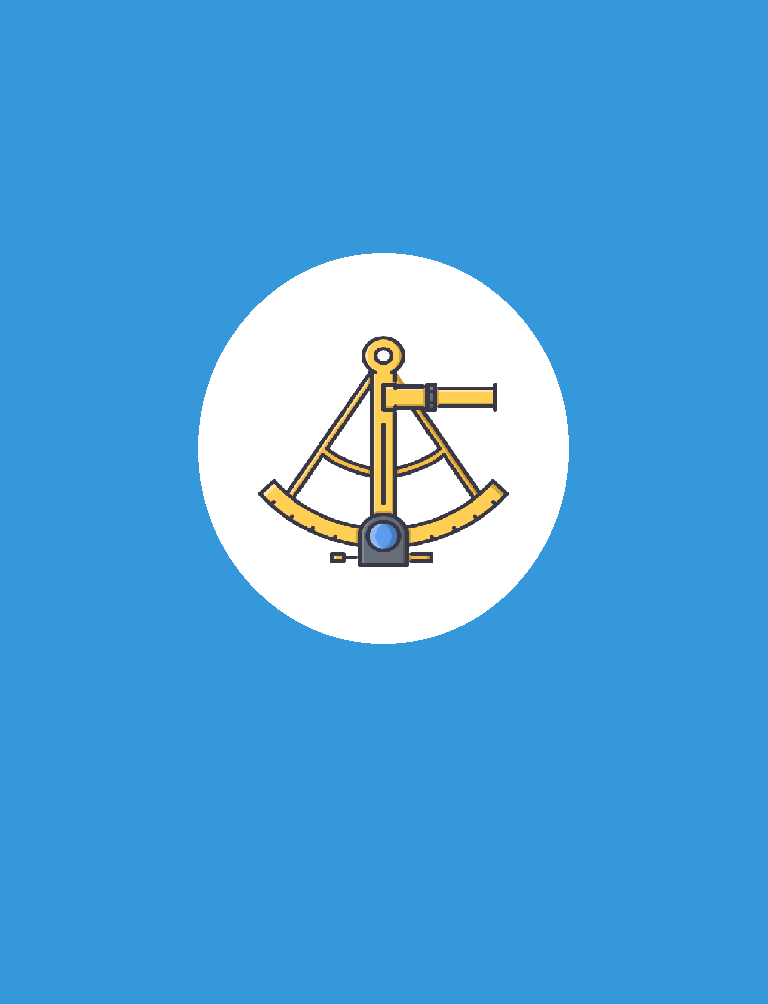
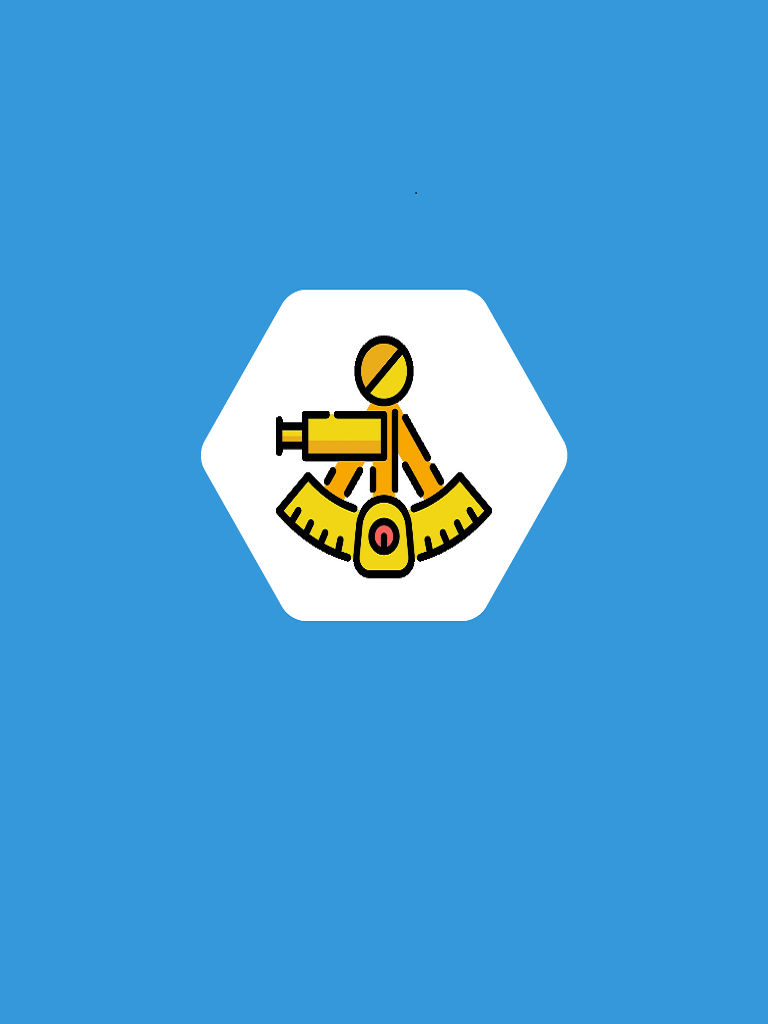
JB - added about page,legalise etc

Changed region(s): [[0.25, 0.247, 0.75, 0.6484]]

diff --git a/SextantHelper/SextantHelper/PageAbout.cs b/SextantHelper/SextantHelper/PageAbout.cs
@@ -1,6 +1,7 @@
-using System;
+using Xamarin.Forms;
 using System.Reflection;
-using Xamarin.Forms;
+using System;
+using Xamarin.Essentials;
 
 namespace SextantHelper
 {
@@ -8,14 +9,21 @@ namespace SextantHelper
     {
         public PageAbout()
         {
-            const string cSTR_TOP = "Sextant Helper - From Red Lid";
-            const string cSTR_ABOUT = "Sextant Helper aims to help you capture celestial observations from a Sextant. It does not replace the need for a sextant. Content copyright of originators & shared with their consent.";
-            
+            const string cSTR_ABOUT = "Shared for educational purposes. No warranties expressed or implied. Content copyright of originators & shared with their consent. Logo courtesy flaticon.com";
+            const string cWEB = "github.com/jimbowyer/SextantHelper";
             var assembly = typeof(SextantHelper.App).GetTypeInfo().Assembly;
             var assemName = new AssemblyName(assembly.FullName);
             string sVersion = "Version: " + assemName.Version.ToString();
 
             BackgroundColor = Color.White;
+
+            Button btnLink = new Button() { Text = cWEB, TextColor = Color.Blue };
+            btnLink.Clicked += (sender, args) =>
+            {
+                Uri uri = new Uri("http://" + cWEB);
+                Launcher.OpenAsync(uri);
+            };
+
             Content = new StackLayout
             {
                 HorizontalOptions = LayoutOptions.Center,
@@ -23,18 +31,20 @@ namespace SextantHelper
                 Padding = new Thickness(5),
                 Spacing = 30,
                 Children = {
-                    new Label { Text = cSTR_TOP, TextColor= Color.Black, HorizontalTextAlignment= TextAlignment.Center},
                     new Image
                     {
-                        Source = "sextant_about.png",
+                        Source = "about.jpg",
                         IsVisible = true,
                         VerticalOptions = LayoutOptions.Start,
                         HorizontalOptions = LayoutOptions.Center
                     },
                     new Label { Text = sVersion, TextColor= Color.Black, HorizontalTextAlignment= TextAlignment.Center},
-                    new Label { Text = cSTR_ABOUT, TextColor= Color.Black, HorizontalTextAlignment= TextAlignment.Center},                    
+                    new Label { Text = cSTR_ABOUT, TextColor= Color.Black, HorizontalTextAlignment= TextAlignment.Center},
+                    btnLink
                 }
             };
-        } //ctor
-    } //class
-} //ns
+
+        } //PageAbout
+    }
+}
+

diff --git a/SextantHelper/SextantHelper.Android/Properties/AssemblyInfo.cs b/SextantHelper/SextantHelper.Android/Properties/AssemblyInfo.cs
@@ -11,7 +11,7 @@ using Android.App;
 [assembly: AssemblyConfiguration("")]
 [assembly: AssemblyCompany("")]
 [assembly: AssemblyProduct("SextantHelper.Android")]
-[assembly: AssemblyCopyright("Copyright ©  2014")]
+[assembly: AssemblyCopyright("Copyright ©  2023")]
 [assembly: AssemblyTrademark("")]
 [assembly: AssemblyCulture("")]
 [assembly: ComVisible(false)]
@@ -22,8 +22,8 @@ using Android.App;
 //      Minor Version 
 //      Build Number
 //      Revision
-[assembly: AssemblyVersion("1.0.0.1")]
-[assembly: AssemblyFileVersion("1.0.0.1")]
+[assembly: AssemblyVersion("1.0.1.0")]
+[assembly: AssemblyFileVersion("1.0.1.0")]
 
 // Add some common permissions, these can be removed if not needed
 [assembly: UsesPermission(Android.Manifest.Permission.Internet)]

diff --git a/SextantHelper/SextantHelper.iOS/Properties/AssemblyInfo.cs b/SextantHelper/SextantHelper.iOS/Properties/AssemblyInfo.cs
@@ -10,7 +10,7 @@ using System.Runtime.InteropServices;
 [assembly: AssemblyConfiguration("")]
 [assembly: AssemblyCompany("")]
 [assembly: AssemblyProduct("SextantHelper.iOS")]
-[assembly: AssemblyCopyright("Copyright ©  2014")]
+[assembly: AssemblyCopyright("Copyright ©  2023")]
 [assembly: AssemblyTrademark("")]
 [assembly: AssemblyCulture("")]
 
@@ -32,5 +32,5 @@ using System.Runtime.InteropServices;
 // You can specify all the values or you can default the Build and Revision Numbers 
 // by using the '*' as shown below:
 // [assembly: AssemblyVersion("1.0.*")]
-[assembly: AssemblyVersion("1.0.0.1")]
-[assembly: AssemblyFileVersion("1.0.0.1")]
+[assembly: AssemblyVersion("1.0.1.0")]
+[assembly: AssemblyFileVersion("1.0.1.0")]

diff --git a/SextantHelper/SextantHelper.iOS/Main.cs b/SextantHelper/SextantHelper.iOS/Main.cs
@@ -2,6 +2,7 @@
 using Xamarin.Forms;
 using UIKit;
 using SextantHelper.iOS;
+using System.Runtime.CompilerServices;
 
 [assembly: ResolutionGroupName("RedlidConsulting")]
 [assembly: ExportRenderer(typeof(Entry), typeof(NumericKeyboardEntryRenderer))]
@@ -15,6 +16,7 @@ namespace SextantHelper.iOS
             // if you want to use a different Application Delegate class from "AppDelegate"
             // you can specify it here.
             UIApplication.Main(args, null, typeof(AppDelegate));
+            
         }
     } //class app
 

diff --git a/SextantHelper/SextantHelper/PageMain.cs b/SextantHelper/SextantHelper/PageMain.cs
@@ -1,5 +1,4 @@
-
-using Xamarin.Forms;
+using Xamarin.Forms;
 
 namespace SextantHelper
 {
@@ -7,7 +6,6 @@ namespace SextantHelper
     {
         public PageMain()
         {
-
             this.Children.Add(new PageSky
             {
                 Title = "Sky Info",
@@ -26,9 +24,10 @@ namespace SextantHelper
 
             this.Children.Add(new PageAbout
             {
-                Title = "About",
+                Title = "About"
             });
-           
+
+
         } //ctor
     } //class PageMain 
 }

diff --git a/SextantHelper/SextantHelper.Android/MainActivity.cs b/SextantHelper/SextantHelper.Android/MainActivity.cs
@@ -4,6 +4,7 @@ using Android.App;
 using Android.Content.PM;
 using Android.Runtime;
 using Android.OS;
+using Xamarin.Essentials;
 
 namespace SextantHelper.Droid
 {
